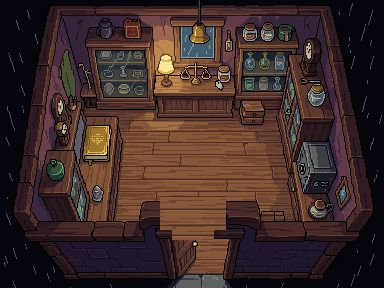
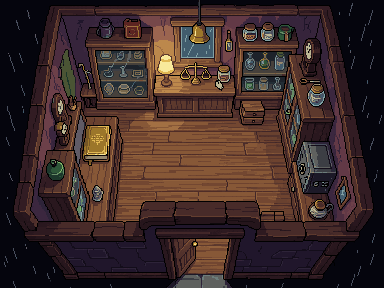
Exchange rooms: door frames cover you on the way out; Hash and Mabel on the floor
Each room's front wall and door frame are drawn again in front of you as
you step into the doorway. The Pawn Shop goes back to its original
picture: the edit had painted over its door frame. The diner's and the
bakery's counters run along the walls, so Hash and Mabel now stand on
the floor beside them instead of behind them.

Claude-Session: https://claude.ai/code/session_011FVFbT6X2tiTMEPbvbfDJT

Changed region(s): [[0.4062, 0.6562, 0.5938, 0.8438]]

diff --git a/game/js/exchange-rooms.js b/game/js/exchange-rooms.js
@@ -144,7 +144,7 @@
     map: ['############', '############', '############', '############', '####.....###',
       '####.....###', '#####DD#####', '############', '############'],
     enter: [5, 5, 'north'],
-    clerk: 'toro', counter: [6, 2.4, 'south'], over: [[5, 3], [6, 3]], front: [[85, 90, 198, 47, 3]],
+    clerk: 'toro', counter: [6, 2.4, 'south'], over: [[5, 3], [6, 3]], front: [[85, 90, 198, 47, 3], [0, 215, 175, 73, 6], [230, 215, 154, 73, 6], [157, 215, 83, 20, 6]],
     people: () => ['toro'], spots: {}, names: { toro: 'TORO' }, looks: { toro: { sprite: 'folk3' } },
     lights: [{ x: 7.6, y: 1.8, r: 2.6 }, { x: 8.2, y: 2.9, r: 1.6, rgb: '140,255,170' }],
     props: [
@@ -161,7 +161,7 @@
     map: ['############', '############', '############', '####...#####', '####.....###',
       '####.....###', '#####DD#####', '############', '############'],
     enter: [5, 5, 'north'],
-    clerk: 'v3', counter: [5.5, 2.1, 'south'], over: [[5, 2], [6, 2]], front: [[153, 77, 84, 40, 2]],
+    clerk: 'v3', counter: [5.5, 2.1, 'south'], over: [[5, 2], [6, 2]], front: [[153, 77, 84, 40, 2], [0, 200, 172, 88, 6], [228, 200, 156, 88, 6], [140, 200, 120, 40, 6]],
     // Barnaby's own sprite (js/npc-arcs.js) once it is in the game; until then, the trader from the market.
     people: () => ['v3'], spots: {},
     get names() { return { v3: barnaby() ? 'BARNABY' : 'TRADER' }; }, get looks() { return barnaby() ? { v3: { sprite: 'barnaby' } } : null; },
@@ -182,7 +182,7 @@
     map: ['############', '############', '############', '############', '###........#',
       '####......##', '#####DD#####', '############', '############'],
     enter: [5, 5, 'north'],
-    clerk: 'kagemaru', counter: [5, 2.45, 'south'], over: [[5, 3], [6, 3]], front: [[165, 96, 72, 56, 3]],
+    clerk: 'kagemaru', counter: [5, 2.45, 'south'], over: [[5, 3], [6, 3]], front: [[165, 96, 72, 56, 3], [0, 200, 168, 88, 6], [233, 200, 151, 88, 6], [157, 198, 88, 35, 6]],
     people: () => sale() ? ['kagemaru'] : [], spots: {}, names: { kagemaru: 'KAGEMARU' },
     windows: [{ r: [178, 23, 42, 37] }],
     lights: [{ x: 6.7, y: 3, r: 3, rgb: '255,190,110' }],
@@ -204,9 +204,10 @@
     map: ['############', '############', '############', '############', '####.....###',
       '####......##', '#####DD#####', '############', '############'],
     enter: [5, 5, 'north'],
-    clerk: 'xcook', counter: [4.5, 2.4, 'south'], over: [[4, 3], [5, 3], [6, 3]], front: [[80, 95, 150, 48, 3]],
+    // The counters run along the walls, so Hash and Mabel stand out on the floor beside them.
+    front: [[0, 197, 174, 91, 6], [227, 197, 157, 91, 6], [165, 197, 68, 30, 6]],
     people: () => ['xcook', 'xdin0', 'xdin1'].concat(storm() ? ['xdin2', 'xdin3'] : [], inDiner()),
-    spots: { xdin0: [9, 5, 'west'], xdin1: [6, 4, 'north'], xdin2: [4, 4, 'north'], xdin3: [4, 5, 'east'], neel: [8, 4, 'west'] },
+    spots: { xcook: [4, 4, 'south'], xdin0: [9, 5, 'west'], xdin1: [6, 4, 'north'], xdin2: [5, 4, 'north'], xdin3: [8, 5, 'north'], neel: [8, 4, 'west'] },
     names: { xcook: 'HASH', xdin0: '', xdin1: '', xdin2: '', xdin3: '', neel: 'NEEL' },
     looks: { xcook: { sprite: 'spec3' }, xdin0: { sprite: 'folk1' }, xdin1: { sprite: 'folk4' }, xdin2: { sprite: 'folk6' }, xdin3: { sprite: 'spec2' } },
     lights: [{ x: 3.4, y: 2, r: 2.4 }, { x: 6.1, y: 2, r: 2.4 }, { x: 8.6, y: 2.4, r: 2.4 }, { x: 10.6, y: 2.6, r: 2, rgb: '255,90,190' }],
@@ -221,8 +222,8 @@
     map: ['############', '############', '############', '############', '###.....####',
       '####....####', '#####DD#####', '############', '############'],
     enter: [5, 5, 'north'],
-    clerk: 'xbaker', counter: [4, 2.4, 'south'], over: [[4, 3], [5, 3]], front: [[92, 89, 90, 58, 3]],
-    people: () => ['xbaker'], spots: {}, names: { xbaker: 'MABEL' }, looks: { xbaker: { sprite: 'folk2' } },
+    front: [[0, 203, 170, 85, 6], [227, 203, 157, 85, 6], [160, 203, 77, 24, 6]],
+    people: () => ['xbaker'], spots: { xbaker: [7, 4, 'south'] }, names: { xbaker: 'MABEL' }, looks: { xbaker: { sprite: 'folk2' } },
     windows: [{ r: [105, 68, 55, 27] }],
     lights: [{ x: 8.2, y: 3.3, r: 3, rgb: '255,140,60' }, { x: 5.3, y: 2.8, r: 2 }, { x: 9, y: 5.1, r: 1.6 }],
     props: [
